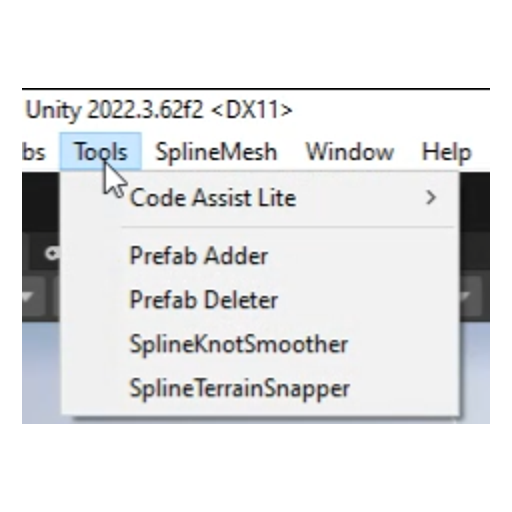
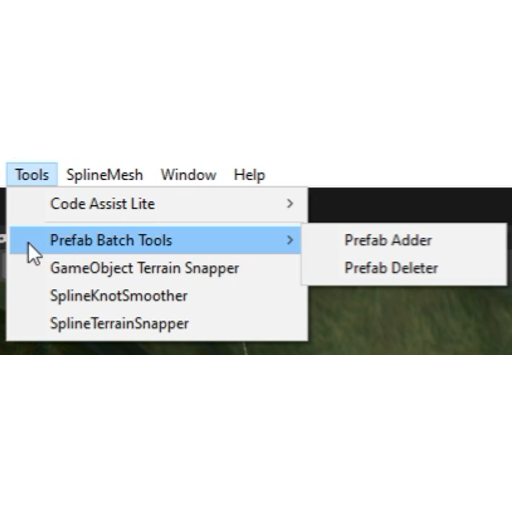
MISC

diff --git a/PrefabBatchTools/PrefabDeleter.cs b/PrefabBatchTools/PrefabDeleter.cs
@@ -11,7 +11,7 @@ public class PrefabDeleter : EditorWindow
     private bool includeNestedChildren = false;
 
 
-    [MenuItem("Tools/Prefab Deleter")]
+    [MenuItem("Tools/Prefab Batch Tools/Prefab Deleter")]
     private static void OpenWindow()
     {
         GetWindow<PrefabDeleter>("Prefab Deleter");

diff --git a/PrefabBatchTools/PrefabAdder.cs b/PrefabBatchTools/PrefabAdder.cs
@@ -9,7 +9,7 @@ public class PrefabAdder : EditorWindow
     private bool allowDuplicate = false;
 
 
-    [MenuItem("Tools/Prefab Adder")]
+    [MenuItem("Tools/Prefab Batch Tools/Prefab Adder")]
     private static void OpenWindow()
     {
         GetWindow<PrefabAdder>("Prefab Adder");

diff --git a/README.md b/README.md
@@ -52,7 +52,7 @@ Place the scripts inside an `Editor` folder in your Unity project:
 ```text
 Assets/
 └── Editor/
-    └── PrefabBatchAdder/
+    └── PrefabBatchTools/
         ├── PrefabAdder.cs
         └── PrefabDeleter.cs
 ```

diff --git a/README_CN.md b/README_CN.md
@@ -52,7 +52,7 @@
 ```text
 Assets/
 └── Editor/
-    └── PrefabBatchAdder/
+    └── PrefabBatchTools/
         ├── PrefabAdder.cs
         └── PrefabDeleter.cs
 ```
